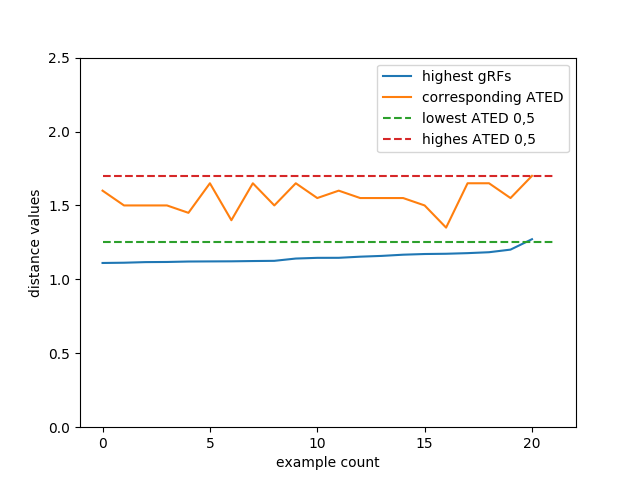
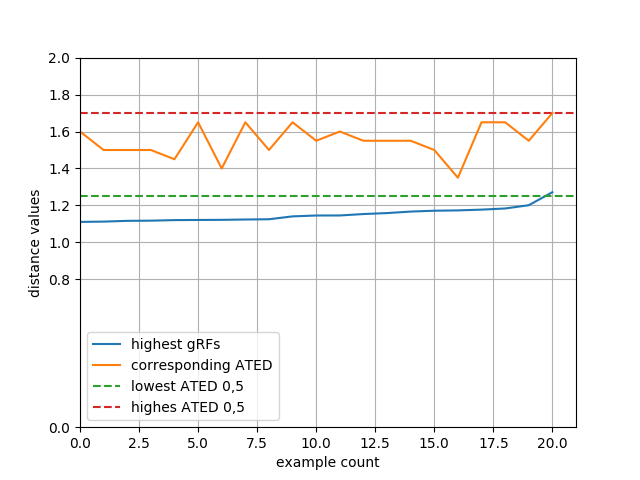
new plots

diff --git a/tree_comparison.py b/tree_comparison.py
@@ -531,7 +531,7 @@ def create_graph(tree_size, number_of_trees, graph_type="zss_to_grf"):
                 plt.close()
             if len(s_grf_1) > 0 and len(s_zss_0_5) > 10:
                 maximum = max(np.amax(s_zss_0_5), np.amax(s_zss_0_5))
-                plot_name = 'plots/high_grf_corr_ated.png'
+                plot_name = 'plots/all_examples_grf_corr_ated.png'
                 plt.figure(3,(24,8))
                 plt.grid(True)
                 plt.ylim(0, max(2, 0.2 + maximum)) 
